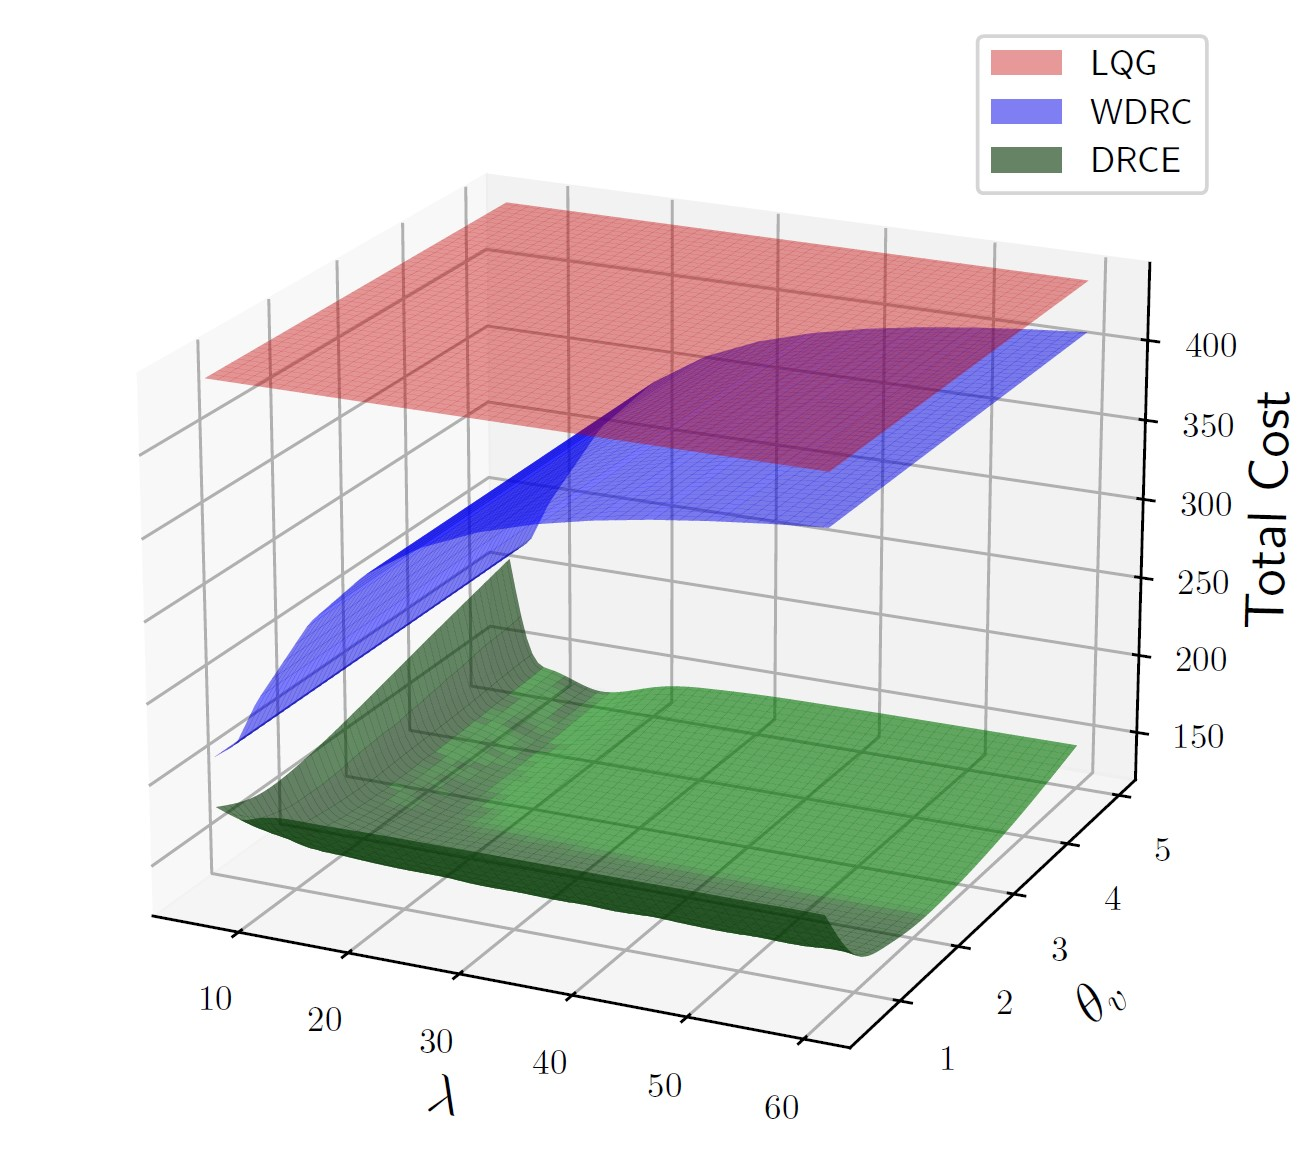
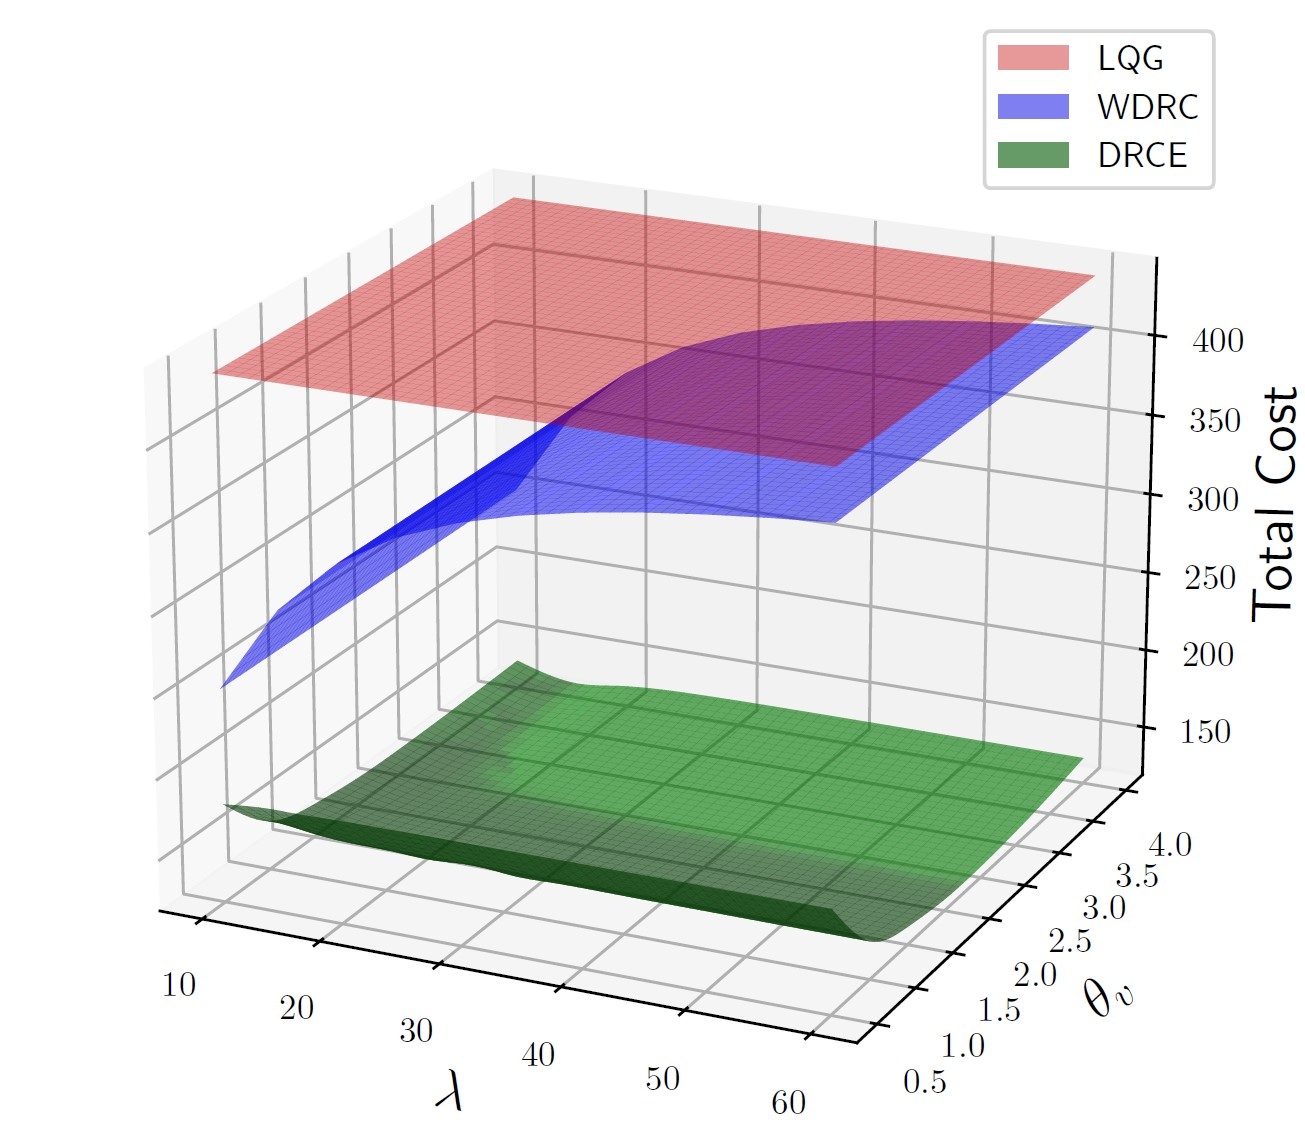
18MAR24

diff --git a/main.py b/main.py
@@ -96,12 +96,8 @@ def save_data(path, data):
 
 def main(dist, noise_dist1, num_sim, num_samples, num_noise_samples, T):
     noise_plot_results = True
-    lambda_ = 10
-    seed = 2024 # any value
-    if noise_plot_results: # if you need to draw plot_J
-        num_noise_list = [5, 10, 12, 14, 16, 18, 20, 25, 30, 35, 40]
-    else:
-        num_noise_list = [num_noise_samples]
+    seed = 2024 # Random seed !  any value
+    num_noise_list = [5, 10, 12, 14, 16, 18, 20, 25, 30, 35, 40]
     
     # for the noise_plot_results!!
     output_J_LQG_mean, output_J_WDRC_mean, output_J_DRCE_mean=[], [], []
@@ -117,10 +113,9 @@ def main(dist, noise_dist1, num_sim, num_samples, num_noise_samples, T):
     #----------------------------
     # change 1 to 0 if you don't want to use given lambda
     use_lambda = 1
+    lambda_ = 10
     
-    #theta_v_list = [1.0, 1.2, 1.4, 1.6, 2.0]
     theta_v_list = [2.0]
-    #theta_w_list = [1.0, 1.5, 2.0, 2.5, 3.0, 3.5, 4.0]
     theta_w_list = [2.0] # theta_w have no effect if use set use_lambda = 1
     noisedist = [noise_dist1]
     theta_x0 = 0.5 # radius of initial state ambiguity set
@@ -138,7 +133,7 @@ def main(dist, noise_dist1, num_sim, num_samples, num_noise_samples, T):
                     if not os.path.exists(path):
                         os.makedirs(path)
                 
-                    #-------Initialization-------
+                    #-------Disturbance Distribution-------
                     if dist =="uniform":
                         #disturbance distribution parameters
                         w_max = 0.3*np.ones(nx)
@@ -152,10 +147,9 @@ def main(dist, noise_dist1, num_sim, num_samples, num_noise_samples, T):
                         x0_cov = 1/12*np.diag((x0_max - x0_min)**2)
                         
                     elif dist == "normal":
-                        
+                        #disturbance distribution parameters
                         w_max = None
                         w_min = None
-
                         mu_w = 0.1*np.ones((nx, 1))
                         Sigma_w= 0.1*np.eye(nx)
                         #initial state distribution parameters
@@ -164,6 +158,7 @@ def main(dist, noise_dist1, num_sim, num_samples, num_noise_samples, T):
                         x0_mean = np.zeros((nx,1))
                         x0_cov = 0.01*np.eye(nx)
                     elif dist == "quadratic":
+                        #disturbance distribution parameters
                         w_max = 0.2*np.ones(nx)
                         w_min = -0.1*np.ones(nx)
                         mu_w = (0.5*(w_max + w_min))[..., np.newaxis]
@@ -179,7 +174,7 @@ def main(dist, noise_dist1, num_sim, num_samples, num_noise_samples, T):
                         v_min = -0.5*np.ones(ny)
                         v_max = 0.5*np.ones(ny)
                         mu_v = (0.5*(v_max + v_min))[..., np.newaxis]
-                        M = 1/12*np.diag((v_max - v_min)**2)
+                        M = 1/12*np.diag((v_max - v_min)**2) #observation noise covariance
                     elif noise_dist =="normal":
                         v_max = None
                         v_min = None
@@ -189,7 +184,7 @@ def main(dist, noise_dist1, num_sim, num_samples, num_noise_samples, T):
                         v_min = 0.0*np.ones(ny)
                         v_max = 1.0*np.ones(ny)
                         mu_v = (0.5*(v_max + v_min))[..., np.newaxis]
-                        M = 3.0/20.0 *np.diag((v_max-v_min)**2)
+                        M = 3.0/20.0 *np.diag((v_max-v_min)**2) #observation noise covariance
                         
                         
                     #-------Estimate the nominal distribution-------
@@ -197,7 +192,6 @@ def main(dist, noise_dist1, num_sim, num_samples, num_noise_samples, T):
                     mu_hat, Sigma_hat = gen_sample_dist(dist, T+1, num_samples, mu_w=mu_w, Sigma_w=Sigma_w, w_max=w_max, w_min=w_min)
                     # Nominal Noise distribution
                     v_mean_hat, M_hat = gen_sample_dist(noise_dist, T+1, num_noise, mu_w=mu_v, Sigma_w=M, w_max=v_max, w_min=v_min)
-                    
                     M_hat = M_hat + 1e-6*np.eye(ny) # to prevent numerical error
                     
                     #-------Create a random system-------
@@ -207,8 +201,8 @@ def main(dist, noise_dist1, num_sim, num_samples, num_noise_samples, T):
                     output_lqg_list = []
                     output_wdrc_list = []
                     output_drce_list = []
-                    #Initialize controllers
                     
+                    #Initialize controllers
                     drce = DRCE(lambda_, theta_w, theta, theta_x0, T, dist, noise_dist, system_data, mu_hat, Sigma_hat, x0_mean, x0_cov, x0_max, x0_min, mu_w, Sigma_w, w_max, w_min, v_max, v_min, mu_v, v_mean_hat,  M_hat, use_lambda)
                     wdrc = WDRC(lambda_, theta_w, T, dist, noise_dist, system_data, mu_hat, Sigma_hat, x0_mean, x0_cov, x0_max, x0_min, mu_w, Sigma_w, w_max, w_min, v_max, v_min, mu_v, v_mean_hat, M_hat, use_lambda)
                     lqg = LQG(T, dist, noise_dist, system_data, mu_hat, Sigma_hat, x0_mean, x0_cov, x0_max, x0_min, mu_w, Sigma_w, w_max, w_min, v_max, v_min, mu_v, v_mean_hat, M_hat)

diff --git a/main_param.py b/main_param.py
@@ -95,10 +95,11 @@ def save_data(path, data):
 def main(dist, noise_dist1, num_sim, num_samples, num_noise_samples, T, plot_results):
     
     lambda_ = 10
-    seed = 2024 # any value
+    seed = 2024 # Random seed
     noisedist = [noise_dist1]
     num_noise_list = [num_noise_samples]
-    theta_w = 1.0 # will not be used !!!
+    theta_w = 1.0 # will not be used for this file!!!
+    
     # for the noise_plot_results!!
     output_J_LQG_mean, output_J_WDRC_mean, output_J_DRCE_mean=[], [], []
     output_J_LQG_std, output_J_WDRC_std, output_J_DRCE_std=[], [], []
@@ -111,8 +112,7 @@ def main(dist, noise_dist1, num_sim, num_samples, num_noise_samples, T, plot_res
     B = C = Q = R = np.eye(10) 
     Qf = np.zeros((10,10))
     #----------------------------
-    # You can change theta_v list and lambda_list ! but you also need to change lists at plot_params.py to get proper plot results
-    
+    # You can change theta_v list and lambda_list ! but you also need to change lists at plot_params.py to get proper plot
     theta_v_list = [0.5, 1.0, 1.5, 2.0, 2.5, 3.0, 3.5, 4.0]
     lambda_list = [10, 15, 20, 25, 30, 35, 40, 45, 50, 55, 60]
     theta_x0 = 0.5 # radius of initial state ambiguity set
@@ -130,7 +130,7 @@ def main(dist, noise_dist1, num_sim, num_samples, num_noise_samples, T, plot_res
                     if not os.path.exists(path):
                         os.makedirs(path)
                 
-                    #-------Initialization-------
+                    #-------Disturbance distribution-------
                     if dist =="uniform":
                         #disturbance distribution parameters
                         w_max = 0.6*np.ones(nx)
@@ -144,10 +144,9 @@ def main(dist, noise_dist1, num_sim, num_samples, num_noise_samples, T, plot_res
                         x0_cov = 1/12*np.diag((x0_max - x0_min)**2)
                         
                     elif dist == "normal":
-                        
+                        #disturbance distribution parameters
                         w_max = None
                         w_min = None
-
                         mu_w = 0.1*np.ones((nx, 1))
                         Sigma_w= 0.1*np.eye(nx)
                         #initial state distribution parameters
@@ -156,6 +155,7 @@ def main(dist, noise_dist1, num_sim, num_samples, num_noise_samples, T, plot_res
                         x0_mean = np.zeros((nx,1))
                         x0_cov = 0.01*np.eye(nx)
                     elif dist == "quadratic":
+                        #disturbance distribution parameters
                         w_max = 0.2*np.ones(nx)
                         w_min = -0.1*np.ones(nx)
                         mu_w = (0.5*(w_max + w_min))[..., np.newaxis]
@@ -171,7 +171,7 @@ def main(dist, noise_dist1, num_sim, num_samples, num_noise_samples, T, plot_res
                         v_min = -0.5*np.ones(ny)
                         v_max = 1.0*np.ones(ny)
                         mu_v = (0.5*(v_max + v_min))[..., np.newaxis]
-                        M = 1/12*np.diag((v_max - v_min)**2)
+                        M = 1/12*np.diag((v_max - v_min)**2) #observation noise covariance
                     elif noise_dist =="normal":
                         v_max = None
                         v_min = None
@@ -181,7 +181,7 @@ def main(dist, noise_dist1, num_sim, num_samples, num_noise_samples, T, plot_res
                         v_min = 0.0*np.ones(ny)
                         v_max = 1.0*np.ones(ny)
                         mu_v = (0.5*(v_max + v_min))[..., np.newaxis]
-                        M = 3.0/20.0 *np.diag((v_max-v_min)**2)
+                        M = 3.0/20.0 *np.diag((v_max-v_min)**2) #observation noise covariance
                         
                         
                     #-------Estimate the nominal distribution-------
@@ -190,7 +190,6 @@ def main(dist, noise_dist1, num_sim, num_samples, num_noise_samples, T, plot_res
                     
                     # Nominal Noise distribution
                     v_mean_hat, M_hat = gen_sample_dist(noise_dist, T+1, num_noise, mu_w=mu_v, Sigma_w=M, w_max=v_max, w_min=v_min)
-                    
                     M_hat = M_hat + 1e-6*np.eye(ny) # to prevent numerical error
                     
                     #-------Create a random system-------
